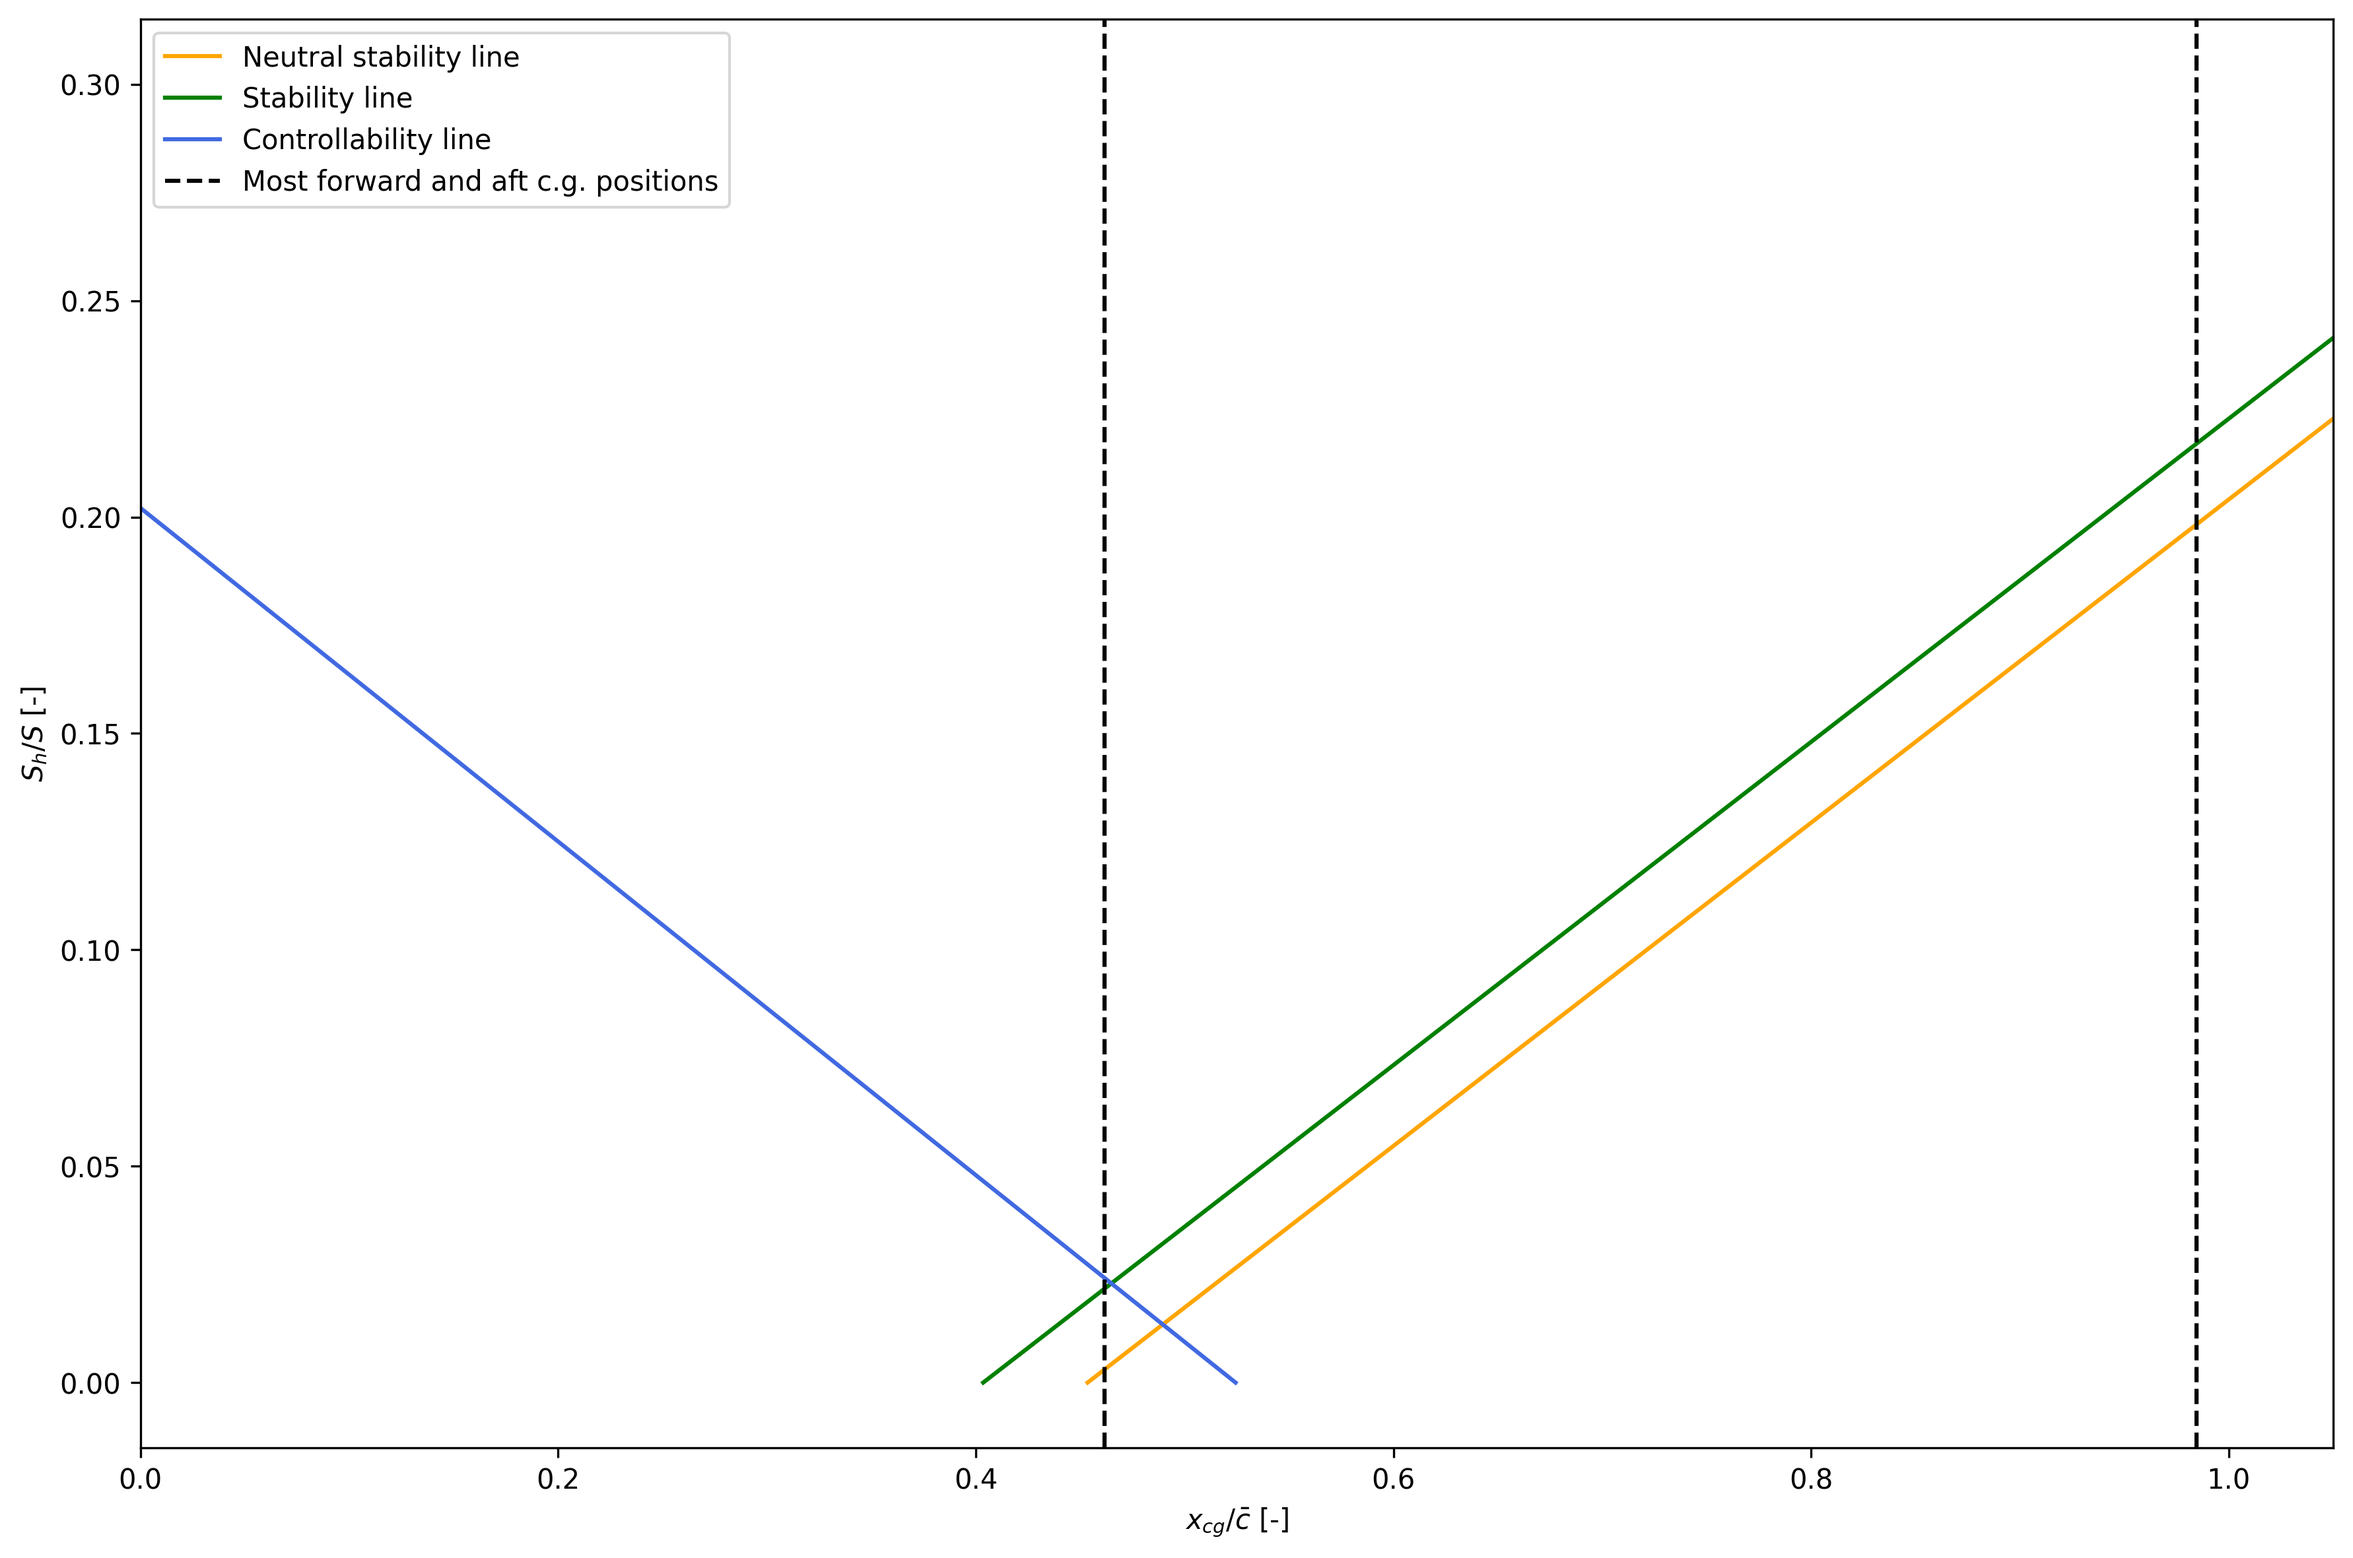
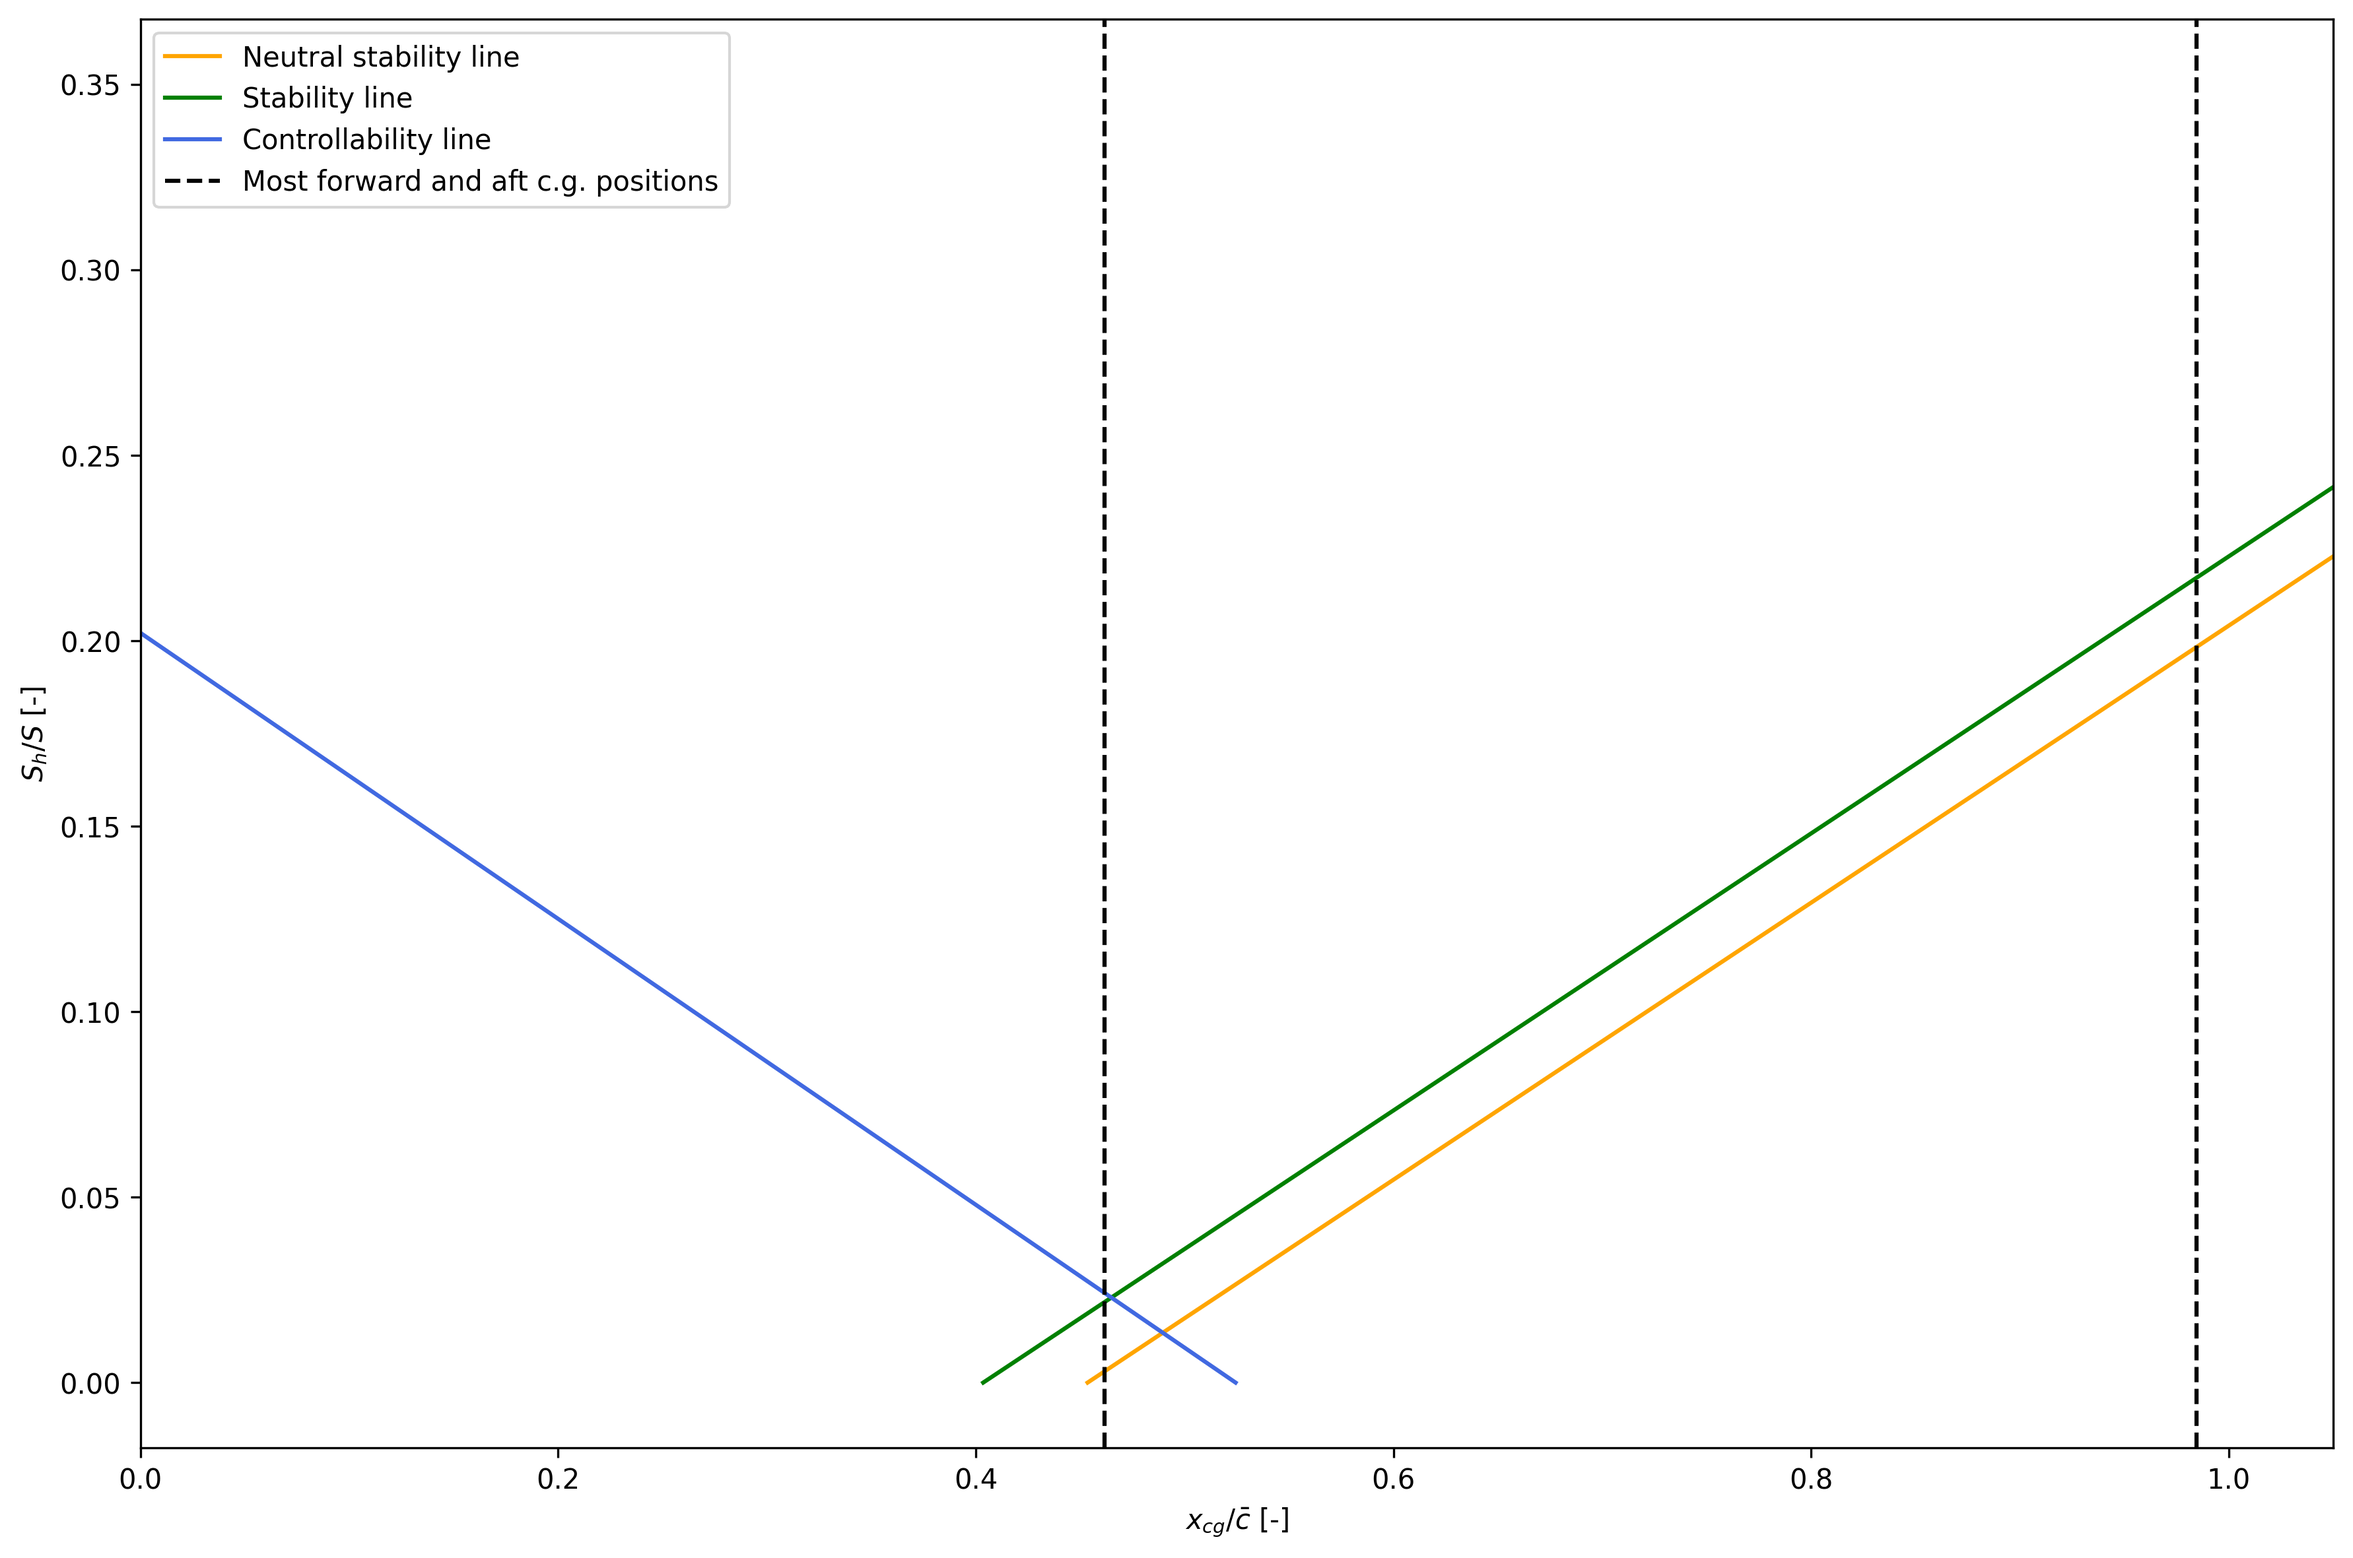
update plots

diff --git a/scissor_plot.py b/scissor_plot.py
@@ -209,7 +209,7 @@ if __name__ == "__main__":
     reference_aircraft_config = {
         "filename": "ref_aircraft_scissor_plot",          # filename to save to
         "show_legend": True,                              # whether to show the legend
-        "max_Sh_S": 0.3,                                  # max Sh/S to plot
+        "max_Sh_S": 0.35,                                 # max Sh/S to plot
         "M_cruise": 0.7,                                  # cruise Mach number
         "S": 93.5,                                        # wing area in [m^2]
         "S_net": 81.1229,                                 # S less the projection of the wing in the fuselage [m^2]
@@ -292,6 +292,7 @@ if __name__ == "__main__":
     ax.axvline(reference_aircraft_config["max_cg_pos"], c="k", linestyle="--")
     ax.axvline(f120_config["min_cg_pos"], c="slategray", linestyle="--", label="F120 most forward and aft c.g. positions")
     ax.axvline(f120_config["max_cg_pos"], c="slategray", linestyle="--")
+    ax.axhline(0.2301997401, c="purple", linestyle="--", label="F100 and F120 actual $S_h/S$")
 
     ax.set_xlabel(r"$x_{cg}/\bar{c}$ [-]")
     ax.set_ylabel(r"$S_h/S$ [-]")
